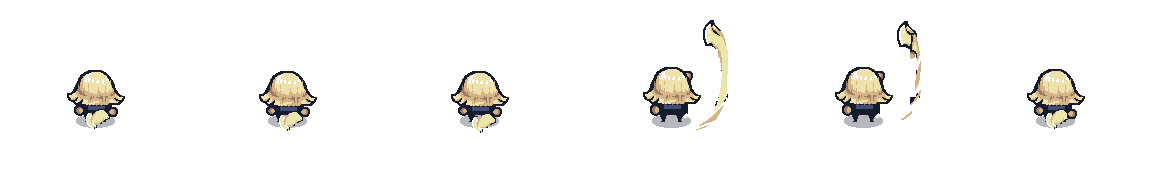
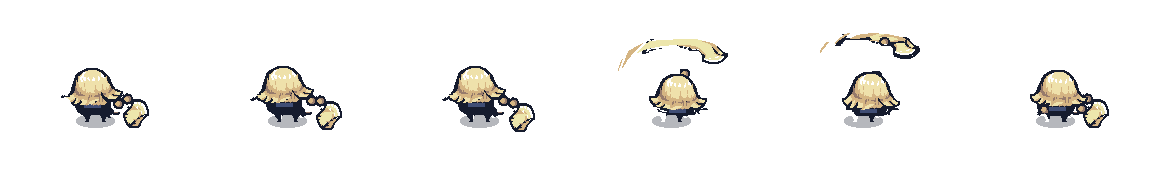
Old Pawn up/down swings v2: body copied from his side chop/build rows, arcs centred above/below him

diff --git a/games/pawnrun/tools/make_old_anims.py b/games/pawnrun/tools/make_old_anims.py
@@ -203,7 +203,8 @@ def comp_right_of(a, xmin):
     return best if best is not None else np.zeros(a.shape[:2], bool)
 
 
-WEAPONS = {"axe": dict(row=3, head=(50, 78), hand=(58, 92)), "hammer": dict(row=2, head=(110, 60), hand=(121, 79))}
+WEAPONS = {"axe": dict(row=3), "hammer": dict(row=2)}
+BROWN = (151, 123, 107)
 HAND = layer(art(FRONT), box(art(FRONT), 111, 124, 105, 116))     # his own hand, outline and all
 
 
@@ -211,49 +212,104 @@ def hand_at(x, y):
     return xform(HAND, dx=x - 117, dy=y - 110)
 
 
-def frames_for(weapon, direction, S):
+def bbox(m):
+    ys, xs = np.where(m)
+    return xs.min(), ys.min(), xs.max(), ys.max()
+
+
+def tool_group(a, with_hand=True):
+    """Tool head (the biggest swoosh-cream blob) and, if asked, the small brown hand next to it, outline included."""
+    lab, n = ndi.label(is_col(a, [(237, 230, 172)]), structure=np.ones((3, 3)))
+    big = 1 + int(np.argmax(ndi.sum(lab > 0, lab, range(1, n + 1))))
+    ys, xs = np.where(lab == big)
+    m = region(a, (xs[0], ys[0]))
+    if with_hand:
+        hx0, hy0, hx1, hy1 = bbox(m)
+        bl, bn = ndi.label(is_col(a, [BROWN]), structure=np.ones((3, 3)))
+        for i in range(1, bn + 1):
+            yy, xx = np.where(bl == i)
+            r = region(a, (xx[0], yy[0]))
+            near = hx0 - 22 <= xx.mean() <= hx1 + 22 and hy0 - 8 <= yy.mean() <= hy1 + 30
+            if r.sum() < 110 and near:
+                m |= r
+    return m
+
+
+def with_outline(a, m):
+    """m plus the dark outline hugging it (two pixels thick at most)."""
+    return m | (ndi.binary_dilation(m, structure=np.ones((3, 3)), iterations=2) & is_col(a, [NAVY]))
+
+
+def tool_mask(weapon, k, a):
+    """Every tool/swoosh/hand-on-tool pixel of side frame k (so what is left is his body)."""
+    if weapon == "axe":
+        m = tool_group(a) if k < 3 else outside_body(a) if k < 5 else tool_group(a, False)
+    else:
+        m = (tool_group(a) if k < 3 else box(a, 124, 175, 58, 150) if k == 3 else
+             comp_right_of(a, 117) if k == 4 else box(a, 127, 175, 80, 112))
+    return with_outline(a, m)
+
+
+def side_body(a, k, weapon, view):
+    """His body from side frame k with the tool taken off (his lean, bob and steps stay), as front or back view."""
+    tm = tool_mask(weapon, k, a)
+    keep = (a[..., 3] == 255) & ~tm
+    lab, n = ndi.label(keep, structure=np.ones((3, 3)))
+    keep &= np.isin(lab, [i + 1 for i, z in enumerate(ndi.sum(keep, lab, range(1, n + 1))) if z >= 20])   # no flecks left over
+    b = np.where(keep[..., None], a, 0).astype(np.uint8)
+    hole = (b[..., 3] == 0) & (F0[..., 3] == 255)                 # where the swoosh hid legs/tunic: use his idle ones
+    hole[:112] = False
+    hole[:, :90] = False
+    hole[:, 125:] = False
+    b[hole] = F0[hole]
+    return b if view == "front" else back_from_side(b)
+
+
+def to_arc(lay, weapon, up, ref, top=None, bottom=None, cx=96, dy=0):
+    """Turn a swoosh layer into a horizontal arc centred on his body line (up: flipped to sweep over the head)."""
+    t = lambda l: xform(xform(l, rot=270 if weapon == "hammer" else 0, pivot=(96, 96)), flip="v" if up else None, pivot=(96, 96))
+    r, m = t(ref), t(lay)
+    x0, y0, x1, y1 = bbox(r[..., 3] == 255)
+    sx = cx - (x0 + x1) // 2
+    sy = (bottom - y1) if up else (top - y0)
+    return xform(m, dx=sx, dy=sy + dy)
+
+
+def frames_for(weapon, up, S):
     """[(pieces, behind_body)] for the 6 frames; pieces are full-frame layers."""
-    group = layer(S[1], region(S[1], WEAPONS[weapon]["head"]) | region(S[1], WEAPONS[weapon]["hand"]))
-    down = direction == "down"
-    if weapon == "hammer":
-        smear = layer(S[3], box(S[3], 124, 160, 58, 128))
-        resid = layer(S[4], comp_right_of(S[4], 117))
-        rest = layer(S[5], box(S[5], 127, 160, 80, 112))
-        if down:
-            return [([xform(group, dx=-6 - 2 * i, dy=-2 * i)], False) for i in range(3)] + [
-                ([xform(smear, dx=-16), hand_at(113, 106)], False),
-                ([xform(resid, dx=-12), hand_at(113, 112)], False),
-                ([xform(rest, dx=-8, dy=4), hand_at(112, 112)], False)]
-        low = xform(group, flip="v", pivot=(112, 70))
-        return [([xform(low, dx=-4 + i, dy=26 + 2 * i)], False) for i in range(3)] + [
-            ([xform(smear, dx=-16, flip="v", pivot=(140, 93)), hand_at(113, 76)], True),
-            ([xform(resid, dx=-12, flip="v", pivot=(140, 93)), hand_at(113, 76)], True),
-            ([xform(rest, dx=-8, dy=8), hand_at(112, 112)], False)]
-    smear = layer(S[3], outside_body(S[3]))
-    resid = layer(S[4], outside_body(S[4]))
-    rest = layer(S[5], cream(S[5]))
-    turn = lambda lay, r: xform(lay, rot=r, pivot=(106, 76))
-    if down:
-        up_group = xform(group, flip="h", pivot=(96, 0))
-        return [([xform(up_group, dx=-22 - 2 * i, dy=-2 * i)], False) for i in range(3)] + [
-            ([xform(turn(smear, 90), flip="h", pivot=(96, 0)), hand_at(113, 106)], False),
-            ([xform(turn(resid, 90), flip="h", pivot=(96, 0)), hand_at(113, 108)], False),
-            ([xform(rest, flip="h", pivot=(96, 0), dx=-22, dy=-4), hand_at(113, 114)], False)]
-    return [([xform(rest, flip="h", pivot=(96, 0), dx=-22 + i, dy=-4 + 2 * i), hand_at(114, 112)], False) for i in range(3)] + [
-        ([turn(smear, 270), hand_at(113, 76)], True),
-        ([turn(resid, 270), hand_at(113, 76)], True),
-        ([xform(rest, flip="h", pivot=(96, 0), dx=-22, dy=-4), hand_at(113, 114)], False)]
+    L = lambda k: layer(S[k], tool_mask(weapon, k, S[k]))
+    group = [L(k) for k in range(3)]
+    smear, resid, rest = L(3), L(4), L(5)
+    arc = lambda lay, dy=0: to_arc(lay, weapon, up, smear, top=114, bottom=70, dy=dy)
+    trail = lambda dy: layer(arc(smear, dy), np.arange(F)[None, :] >= 100) if weapon == "axe" else np.zeros_like(smear)
+    if not up:                                         # front view: tool raised clear above the head, then down across his feet
+        gx0, gy0, gx1, gy1 = bbox(group[1][..., 3] == 255)
+        wind = []
+        for i in range(3):
+            g = xform(group[i], flip="h", pivot=(96, 0)) if weapon == "axe" else group[i]
+            x0, y0, x1, y1 = bbox(g[..., 3] == 255)
+            wind.append(([xform(g, dx=104 - (x0 + x1) // 2, dy=(76 - 3 * i) - y1)], False))
+        home = xform(rest, flip="h", pivot=(96, 0), dx=-22, dy=-4) if weapon == "axe" else xform(rest, dx=-8, dy=4)
+        return wind + [([arc(smear), hand_at(113, 108)], False), ([trail(5), arc(resid, 5), hand_at(113, 110)], False), ([home], False)]
+    low = []
+    for i in range(3):                                 # back view: tool low behind his shoulder, pulled back
+        g = xform(group[i], flip="v", pivot=(96, 96) if weapon == "hammer" else (96, 96))
+        if weapon == "axe":
+            g = xform(g, flip="h", pivot=(96, 0))
+        x0, y0, x1, y1 = bbox(g[..., 3] == 255)
+        low.append(([xform(g, dx=134 - (x0 + x1) // 2 + i, dy=(110 + 2 * i) - (y0 + y1) // 2)], True))
+    home = xform(rest, flip="h", pivot=(96, 0), dx=-22, dy=-4) if weapon == "axe" else xform(rest, dx=-8, dy=4)
+    return low + [([arc(smear), hand_at(110, 74)], True), ([trail(-5), arc(resid, -5), hand_at(110, 76)], True), ([low[0][0][0]], True)]
 
 
 def swing(weapon, direction):
+    up = direction == "up"
     S = [side(sheet(), WEAPONS[weapon]["row"], c) for c in range(6)]
     shadow = np.where(((S[0][..., 3] > 0) & (S[0][..., 3] < 255))[..., None], S[0], 0).astype(np.uint8)
-    body0 = swing_body("front" if direction == "down" else "back")
-    rows = [0, -1, -2, 3, 3, 1] if direction == "down" else [1, 2, 2, -2, -2, 0]
     out = []
-    for i, (pieces, behind) in enumerate(frames_for(weapon, direction, S)):
+    for k, (pieces, behind) in enumerate(frames_for(weapon, up, S)):
         f = shadow.copy()
-        body = posed(body0, rows[i])
+        body = side_body(S[k], k, weapon, "back" if up else "front")
         for lay in (pieces + [body] if behind else [body] + pieces):
             m = lay[..., 3] == 255
             f[m] = lay[m]
